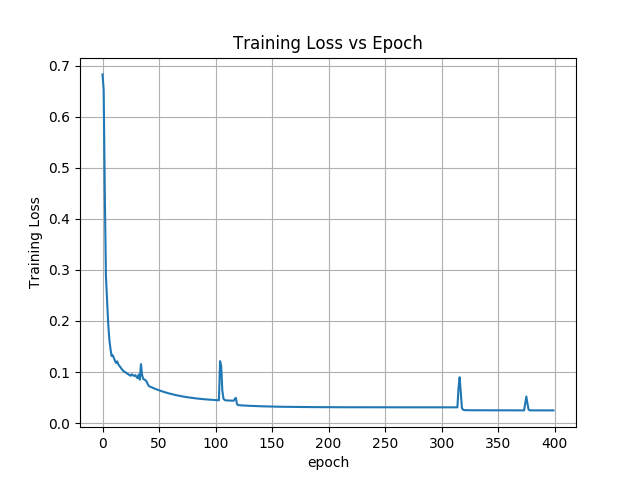
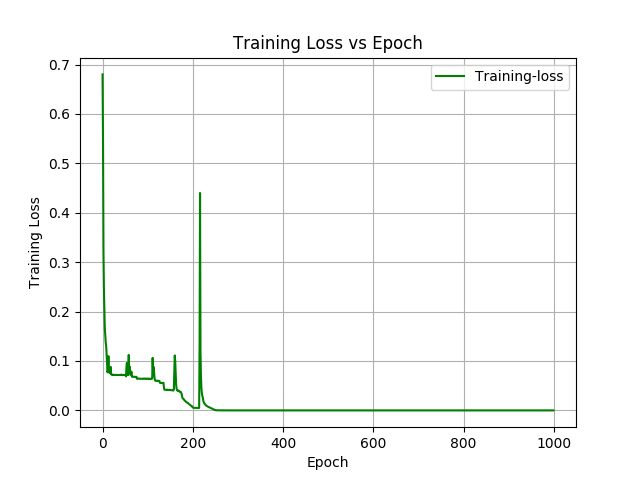
Added training loss & accuracy visual aid.

diff --git a/part-1/deepl-stud.py b/part-1/deepl-stud.py
@@ -139,16 +139,16 @@ classifier.add(Dense(activation="relu", units=26, kernel_initializer="uniform"))
 classifier.add(Dense(activation="relu", units=26, kernel_initializer="uniform"))
 
 # 7th Hidden Layer
-classifier.add(Dense(activation="relu", units=18, kernel_initializer="uniform"))
+classifier.add(Dense(activation="relu", units=20, kernel_initializer="uniform"))
 
 # 8th Hidden Layer
-classifier.add(Dense(activation="relu", units=12, kernel_initializer="uniform"))
+classifier.add(Dense(activation="relu", units=18, kernel_initializer="uniform"))
 
 # 9th Hidden Layer
-classifier.add(Dense(activation="relu", units=6, kernel_initializer="uniform"))
+classifier.add(Dense(activation="relu", units=16, kernel_initializer="uniform"))
 
 # 10th Hidden Layer
-classifier.add(Dense(activation="relu", units=4, kernel_initializer="uniform"))
+classifier.add(Dense(activation="relu", units=12, kernel_initializer="uniform"))
 
 # Output Layer
 classifier.add(Dense(activation="sigmoid", units=1, kernel_initializer="uniform"))
@@ -161,7 +161,7 @@ classifier.compile(optimizer = 'adam', loss = 'binary_crossentropy', metrics = [
 ###########################
 # 2.3: Train the ANN
 ###########################
-h_cb = classifier.fit(X_train, Y_train, batch_size = 10, nb_epoch = 400)
+h_cb = classifier.fit(X_train, Y_train, batch_size = 10, nb_epoch = 1000)
 
 ##############@@@@@@@@####################
 ## STEP 3: ANN MODEL EVALUATION & PREDICTIONS
@@ -184,20 +184,34 @@ cm = confusion_matrix(Y_test, y_pred)
 
 acc = accuracy_score(Y_test, y_pred) * 100.00
 
-print (f'Accuracy: {acc}')
+print (f'Accuracy : {acc}')
 
 
-
-###########################
-# 4: Visualise the Training Loss
-###########################
+##############@@@@@@@@####################
+# 4: Visualise the Training Loss & Accuracy
+##############@@@@@@@@####################
 # Keys to plot
 print(h_cb.history.keys()) 
 
-# plt.plot(h_cb.history['acc'])
-plt.plot(h_cb.history['loss'])
+###########################
+# 4.1: Plot Training Accuracy
+###########################
+plt.plot(h_cb.history['acc'], color='blue')
+plt.title('Training Accuracy vs Epoch')
+plt.ylabel('Training Accuracy')
+plt.xlabel('Epoch')
+plt.grid(True)
+plt.legend(['Training-accuracy'], loc='best')
+plt.show()
+
+###########################
+# 4.2: Plot Training Loss
+###########################
+plt.plot(h_cb.history['loss'], color='g')
 plt.title('Training Loss vs Epoch')
 plt.ylabel('Training Loss')
-plt.xlabel('epoch')
+plt.xlabel('Epoch')
+plt.legend(['Training-loss'], loc='best')
 plt.grid(True)
 plt.show()
+
